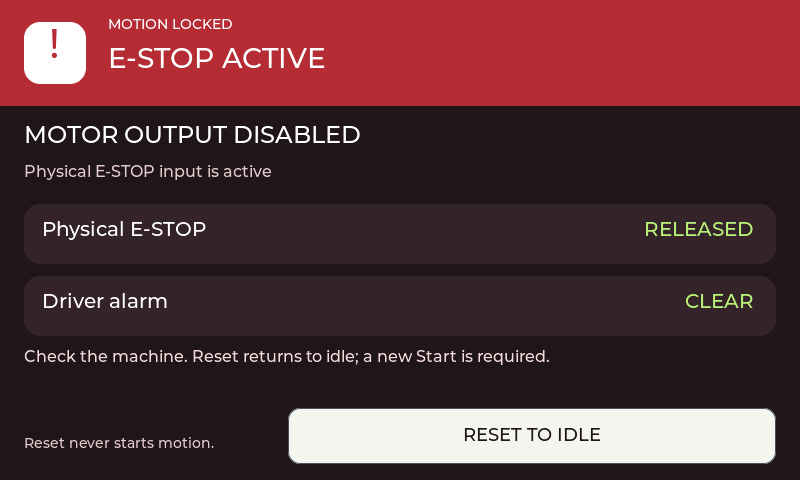
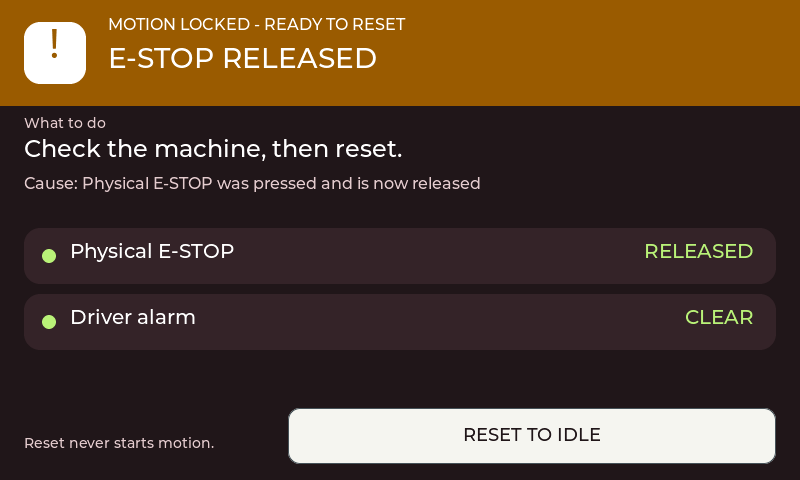
feat: lead the fault overlay with the next action and state the machine condition on the screen saver
Fault overlay:
- The next action is the headline ("Release the E-STOP button."); the
  cause follows once as "Cause: ...". The old layout repeated the cause
  and gave no action.
- The banner is red while something blocks the reset and amber with
  "READY TO RESET" when only the reset is missing.
- A released E-STOP is titled E-STOP RELEASED, not E-STOP ACTIVE.
- Status rows carry a coloured dot. Button labels are unchanged.

Screen saver:
- "Motor stopped" replaces the slogan, with the set speed and direction
  below it. Both are settings; the saver only shows while stopped.
- The idle label is larger.

Fault and screen saver captures are regenerated from the simulator.

diff --git a/src/ui/screens/screen_estop_overlay.cpp b/src/ui/screens/screen_estop_overlay.cpp
@@ -6,11 +6,14 @@
 #include "../lvgl_hal.h"
 #include "../../config.h"
 #include "../../safety/safety.h"
+#include <cstdio>
 
 static lv_obj_t *overlay = nullptr, *title = nullptr, *reasonLabel = nullptr, *inputLabel = nullptr;
 static lv_obj_t *driverLabel = nullptr, *instruction = nullptr, *resetBtn = nullptr;
 static lv_obj_t* eraseBtn = nullptr;
 static lv_obj_t* resetHint = nullptr;
+static lv_obj_t *banner = nullptr, *bannerCaption = nullptr, *bang = nullptr, *inputDot = nullptr, *driverDot = nullptr;
+static constexpr uint32_t kBlockedRed = 0xB52C35, kReadyAmber = 0x9A5B00;
 static uint32_t erasePressMs = 0;
 static constexpr uint32_t kEraseHoldMs = 3000;
 static bool visible = false;
@@ -35,24 +38,35 @@ void estop_overlay_create() {
   lv_obj_set_scrollable(overlay, false);
   lv_obj_set_clickable(overlay, true);
   lv_obj_set_hidden(overlay, true);
-  lv_obj_t* banner = panel(overlay, 0, 0, 800, 106, 0xB52C35);
+  banner = panel(overlay, 0, 0, 800, 106, kBlockedRed);
   lv_obj_set_style_radius(banner, 0, 0);
   lv_obj_t* icon = panel(banner, 24, 22, 62, 62, 0xFFFFFF);
-  lv_obj_t* bang = ui_create_text(icon, 0, 8, 62, "!", FONT_HUGE, lv_color_hex(0xB52C35));
+  bang = ui_create_text(icon, 0, 8, 62, "!", FONT_HUGE, lv_color_hex(kBlockedRed));
   lv_obj_set_style_text_align(bang, LV_TEXT_ALIGN_CENTER, 0);
-  ui_create_text(banner, 108, 19, 660, "MOTION LOCKED", FONT_NORMAL, lv_color_hex(0xFFFFFF));
+  bannerCaption = ui_create_text(banner, 108, 19, 660, "MOTION LOCKED", FONT_SUBTITLE, lv_color_hex(0xFFFFFF));
   title = ui_create_text(banner, 108, 48, 668, "EMERGENCY STOP", FONT_XXL, lv_color_hex(0xFFFFFF));
-  ui_create_text(overlay, 24, 126, 752, "MOTOR OUTPUT DISABLED", FONT_XL, lv_color_hex(0xFFFFFF));
-  reasonLabel = ui_create_text(overlay, 24, 166, 752, "", FONT_SUBTITLE, lv_color_hex(0xE3CBCD));
-  lv_obj_t* input = panel(overlay, 24, 204, 752, 60, 0x342328);
-  ui_create_text(input, 18, 18, 340, "Physical E-STOP", FONT_LARGE, lv_color_hex(0xFFFFFF));
-  inputLabel = ui_create_text(input, 392, 18, 338, "", FONT_LARGE, lv_color_hex(0xFFACAF));
+  // The next action leads and the cause explains it: one statement each, never repeated.
+  ui_create_text(overlay, 24, 118, 300, "What to do", FONT_NORMAL, lv_color_hex(0xE3CBCD));
+  instruction = ui_create_text(overlay, 24, 140, 752, "", FONT_XL, lv_color_hex(0xFFFFFF));
+  reasonLabel = ui_create_text(overlay, 24, 178, 752, "", FONT_SUBTITLE, lv_color_hex(0xE3CBCD));
+  lv_label_set_long_mode(reasonLabel, LV_LABEL_LONG_MODE_WRAP);
+  auto dot = [](lv_obj_t* row) {
+    lv_obj_t* o = lv_obj_create(row);
+    lv_obj_remove_style_all(o);
+    lv_obj_set_size(o, 14, 14); lv_obj_set_pos(o, 18, 21);
+    lv_obj_set_style_radius(o, LV_RADIUS_CIRCLE, 0); lv_obj_set_style_bg_opa(o, LV_OPA_COVER, 0);
+    return o;
+  };
+  lv_obj_t* input = panel(overlay, 24, 228, 752, 56, 0x342328);
+  inputDot = dot(input);
+  ui_create_text(input, 46, 16, 320, "Physical E-STOP", FONT_LARGE, lv_color_hex(0xFFFFFF));
+  inputLabel = ui_create_text(input, 392, 16, 338, "", FONT_LARGE, lv_color_hex(0xFFACAF));
   lv_obj_set_style_text_align(inputLabel, LV_TEXT_ALIGN_RIGHT, 0);
-  lv_obj_t* driver = panel(overlay, 24, 276, 752, 60, 0x342328);
-  ui_create_text(driver, 18, 18, 340, "Driver alarm", FONT_LARGE, lv_color_hex(0xFFFFFF));
-  driverLabel = ui_create_text(driver, 392, 18, 338, "", FONT_LARGE, COL_GREEN);
+  lv_obj_t* driver = panel(overlay, 24, 294, 752, 56, 0x342328);
+  driverDot = dot(driver);
+  ui_create_text(driver, 46, 16, 320, "Driver alarm", FONT_LARGE, lv_color_hex(0xFFFFFF));
+  driverLabel = ui_create_text(driver, 392, 16, 338, "", FONT_LARGE, COL_GREEN);
   lv_obj_set_style_text_align(driverLabel, LV_TEXT_ALIGN_RIGHT, 0);
-  instruction = ui_create_text(overlay, 24, 351, 752, "", FONT_SUBTITLE, lv_color_hex(0xF4DCDD));
   resetHint = ui_create_text(overlay, 24, 438, 242, "Reset never starts motion.", FONT_NORMAL, lv_color_hex(0xE3CBCD));
   eraseBtn = ui_create_btn(overlay, 24, 408, 248, 56, "Hold 3 s to erase data", FONT_SUBTITLE, UI_BTN_DANGER, nullptr, nullptr);
   for (auto code : {LV_EVENT_PRESSED, LV_EVENT_PRESSING, LV_EVENT_RELEASED, LV_EVENT_PRESS_LOST})
@@ -93,6 +107,7 @@ bool estop_overlay_visible() { return visible; }
 void estop_overlay_destroy() {
   if (overlay) lv_obj_delete(overlay);
   overlay = title = reasonLabel = inputLabel = driverLabel = instruction = resetBtn = eraseBtn = resetHint = nullptr;
+  banner = bannerCaption = bang = inputDot = driverDot = nullptr;
   erasePressMs = 0;
   visible = false;
 }
@@ -100,14 +115,27 @@ void estop_overlay_update() {
   if (!visible || millis() - lastUpdate < 250) return;
   lastUpdate = millis();
   const FaultReason reason = safety_get_fault_reason();
-  lv_label_set_text(title, reason == FAULT_ESTOP_PRESSED || reason == FAULT_ESTOP_GLITCH ? "E-STOP ACTIVE" :
+  const bool physical = safety_is_estop_active(), driver = safety_is_driver_alarm_latched();
+  const bool ready = safety_can_reset_from_overlay();
+  const bool estop = reason == FAULT_ESTOP_PRESSED || reason == FAULT_ESTOP_GLITCH;
+  // Red: something still blocks the reset. Amber: only the reset itself is missing.
+  const lv_color_t tone = lv_color_hex(ready ? kReadyAmber : kBlockedRed);
+  lv_obj_set_style_bg_color(banner, tone, 0);
+  lv_obj_set_style_text_color(bang, tone, 0);
+  lv_label_set_text(bannerCaption, ready ? "MOTION LOCKED - READY TO RESET" : "MOTION LOCKED");
+  lv_label_set_text(title, estop ? (physical ? "E-STOP ACTIVE" : "E-STOP RELEASED") :
                            reason == FAULT_PEDAL_INPUT ? "PEDAL INPUT FAULT" :
                            reason == FAULT_DRIVER_ALARM ? "DRIVER ALARM" :
                            reason == FAULT_MOTOR_COMMAND ? "MOTOR COMMAND FAULT" :
                            reason == FAULT_MOTOR_TIMEOUT ? "MOTOR TIMEOUT" :
                            reason == FAULT_NONE ? "MOTION LOCKED" : safety_fault_reason_name(reason));
-  lv_label_set_text(reasonLabel, safety_fault_reason_message(reason));
-  const bool physical = safety_is_estop_active(), driver = safety_is_driver_alarm_latched();
+  char cause[160];
+  snprintf(cause, sizeof(cause), "Cause: %s", reason == FAULT_ESTOP_PRESSED && !physical
+                                                  ? "Physical E-STOP was pressed and is now released"
+                                                  : safety_fault_reason_message(reason));
+  lv_label_set_text(reasonLabel, cause);
+  lv_obj_set_style_bg_color(inputDot, lv_color_hex(physical ? 0xFFACAF : 0xB9F278), 0);
+  lv_obj_set_style_bg_color(driverDot, lv_color_hex(driver ? 0xFFACAF : 0xB9F278), 0);
   lv_label_set_text(inputLabel, physical ? "ACTIVE" : "RELEASED");
   lv_label_set_text(driverLabel, driver ? "ACTIVE" : "CLEAR");
   lv_obj_set_style_text_color(inputLabel, physical ? lv_color_hex(0xFFACAF) : lv_color_hex(0xB9F278), 0);
@@ -115,11 +143,16 @@ void estop_overlay_update() {
   const bool corrupt = reason == FAULT_STORAGE_CORRUPT;
   lv_obj_set_hidden(eraseBtn, !corrupt);
   lv_obj_set_hidden(resetHint, corrupt);
-  const bool ready = safety_can_reset_from_overlay();
-  lv_label_set_text(instruction, ready ? "Check the machine. Reset returns to idle; a new Start is required."
-                                 : reason == FAULT_PEDAL_INPUT
-                                     ? "Release the pedal and restore its input before resetting."
-                                     : safety_fault_reason_message(reason));
+  const bool restart = reason == FAULT_CONTROL_STALE || reason == FAULT_INPUT_STALE || reason == FAULT_HMI_STALE ||
+                       g_restartRequired.load(std::memory_order_acquire);
+  lv_label_set_text(instruction, ready      ? "Check the machine, then reset."
+                                 : physical ? "Release the E-STOP button."
+                                 : driver   ? "Clear the driver alarm."
+                                 : corrupt  ? "Hold the erase button, or reflash."
+                                 : restart  ? "Restart the controller."
+                                 : reason == FAULT_PEDAL_INPUT ? "Release the pedal and restore its input."
+                                 : reason == FAULT_POT_INPUT   ? "Check the speed pot, then turn the knob up."
+                                                               : "Wait - the controller is not ready to reset.");
   lv_obj_t* label = lv_obj_get_child(resetBtn, 0);
   lv_label_set_text(label, ready ? "RESET TO IDLE" : "RESET BLOCKED");
   if (ready)

diff --git a/src/ui/screens/screen_saver.cpp b/src/ui/screens/screen_saver.cpp
@@ -3,12 +3,16 @@
 #include "../theme.h"
 #include "../display.h"
 #include "../../safety/safety.h"
+#include "../value_format.h"
 #include <cmath>
+#include <cstdio>
+#include <cstring>
 
 namespace {
 lv_obj_t* overlay = nullptr;
 lv_obj_t* composition = nullptr;
 lv_obj_t* orbit = nullptr;
+lv_obj_t* setting = nullptr;
 uint32_t lastActivity = 0, lastFrame = 0;
 unsigned heldInputs = 0, frame = 0;
 bool visible = false, previewRequested = false, preview = false;
@@ -41,8 +45,8 @@ void create() {
   // A complete input shield; input filtering consumes the wake press as well.
   lv_obj_set_clickable(overlay, true);
   ui_create_text(overlay, 40, 34, 360, "TIG / ROTATOR", FONT_XL, text);
-  circle(overlay, 623, 39, 8, accent, 0);
-  auto status = ui_create_text(overlay, 647, 35, 113, "Display idle", FONT_TINY, muted);
+  circle(overlay, 634, 37, 10, accent, 0);
+  auto status = ui_create_text(overlay, 600, 33, 160, "Display idle", FONT_SUBTITLE, muted);
   lv_obj_set_style_text_align(status, LV_TEXT_ALIGN_RIGHT, 0);
   box(overlay, 40, 79, 720, 1, lv_color_hex(0x303B3C));
 
@@ -65,9 +69,10 @@ void create() {
   circle(composition, 114, 109, 32, background, 0);
   orbit = circle(composition, 122, 30, 16, text, 0);
   ui_create_text(composition, 308, 29, 360, "Standby", FONT_SUBTITLE, accent);
-  ui_create_text(composition, 306, 72, 380, "Ready when", FONT_HUGE, text);
-  ui_create_text(composition, 306, 121, 380, "you are.", FONT_HUGE, text);
-  ui_create_text(composition, 308, 194, 360, "Welding positioner  /  Motor stopped", FONT_SUBTITLE, muted);
+  // Read from across the shop: the machine state first, then what Start would do.
+  ui_create_text(composition, 306, 66, 400, "Motor stopped", FONT_HUGE, text);
+  ui_create_text(composition, 308, 136, 360, "Set speed", FONT_SUBTITLE, muted);
+  setting = ui_create_text(composition, 308, 162, 400, "", FONT_XXL, text);
 
   box(overlay, 40, 399, 720, 1, lv_color_hex(0x303B3C));
   auto wake = ui_create_text(overlay, 40, 429, 720, "Touch anywhere to wake", FONT_LARGE, text);
@@ -93,6 +98,13 @@ bool allowed() {
     if (child != overlay && !lv_obj_is_hidden(child)) return false;
   }
   return true;
+}
+// Settings, not measurements: the motor is stopped whenever this screen may show.
+void show_setting() {
+  char rpm[16], line[40];
+  ui_format_rpm(rpm, sizeof(rpm), ui_control_view().target_rpm);
+  snprintf(line, sizeof(line), "%s RPM  %s", rpm, ui_control_view().direction == DIR_CW ? "CW" : "CCW");
+  if (strcmp(lv_label_get_text(setting), line) != 0) lv_label_set_text(setting, line);
 }
 void restore_brightness() {
   xSemaphoreTake(g_settings_mutex, portMAX_DELAY);
@@ -120,7 +132,7 @@ void dim_reset_activity() {
 void screen_saver_destroy() {
   dim_reset_activity();
   if (overlay) lv_obj_delete(overlay);
-  overlay = composition = orbit = nullptr;
+  overlay = composition = orbit = setting = nullptr;
 }
 void screen_saver_request_preview() { previewRequested = true; }
 
@@ -162,11 +174,13 @@ void screen_saver_update(uint32_t now) {
     lv_obj_move_foreground(overlay); lv_obj_set_hidden(overlay, false);
     visible = true; frame = 0; lastFrame = now;
     lv_obj_set_pos(composition, 42, 117); lv_obj_set_pos(orbit, 122, 30);
+    show_setting();
     // Preview retains brightness so the design can be inspected.
     if (!preview) display_set_brightness(38);
   }
   if (visible && now - lastFrame >= 4000) {
     lastFrame = now; frame = (frame + 1) % 72;
+    show_setting();
     const float angle = float(frame) * 0.08726646f;
     lv_obj_set_pos(orbit, 122 + int(87 * std::sin(angle)), 117 - int(87 * std::cos(angle)));
     lv_obj_set_pos(composition, 42 + int(8 * std::sin(angle)), 117 + int(6 * std::cos(angle)));

diff --git a/docs/SCREEN_SAVER.md b/docs/SCREEN_SAVER.md
@@ -2,7 +2,7 @@
 
 ![Actual LVGL screen-saver capture](images/ui_runtime_v5/SCREEN_SAVER.png)
 
-The screen saver uses the V5 graphite palette with the selected accent color, in both color schemes, English labels and flat graphics without shadows. A marker moves around the rotator ring every four seconds; the central composition also shifts slightly. It does not display an invented clock or measured RPM.
+The screen saver uses the V5 graphite palette with the selected accent color, in both color schemes, English labels and flat graphics without shadows. A marker moves around the rotator ring every four seconds; the central composition also shifts slightly. It states "Motor stopped" and shows the set speed and direction. Both are settings, not measurements: the screen saver only appears while the motor is stopped. It does not display an invented clock.
 
 ## Settings and waking
 

diff --git a/CHANGELOG.md b/CHANGELOG.md
@@ -23,6 +23,8 @@ and this project adheres to [Semantic Versioning](https://semver.org/spec/v2.0.0
 - Countdown: the Safety hold card is coloured as a warning only while the countdown runs.
 - Step: the angle card is named Step angle, and the diameter row shows an edit icon.
 - Diagnostics: larger text with right-aligned values.
+- Fault overlay: the next action leads ("Release the E-STOP button."), with the cause below it and no repeated text. The banner turns amber and reads "READY TO RESET" once only the reset is missing, and an E-STOP that has been released is titled E-STOP RELEASED.
+- Screen saver: states "Motor stopped" and shows the set speed and direction instead of a slogan. The idle label is larger.
 - Wiring diagram rev 2.8: no text under wires, parallel runs at least 12 px apart, terminal names inside the driver and motor. Connections are unchanged.
 
 ### Removed
